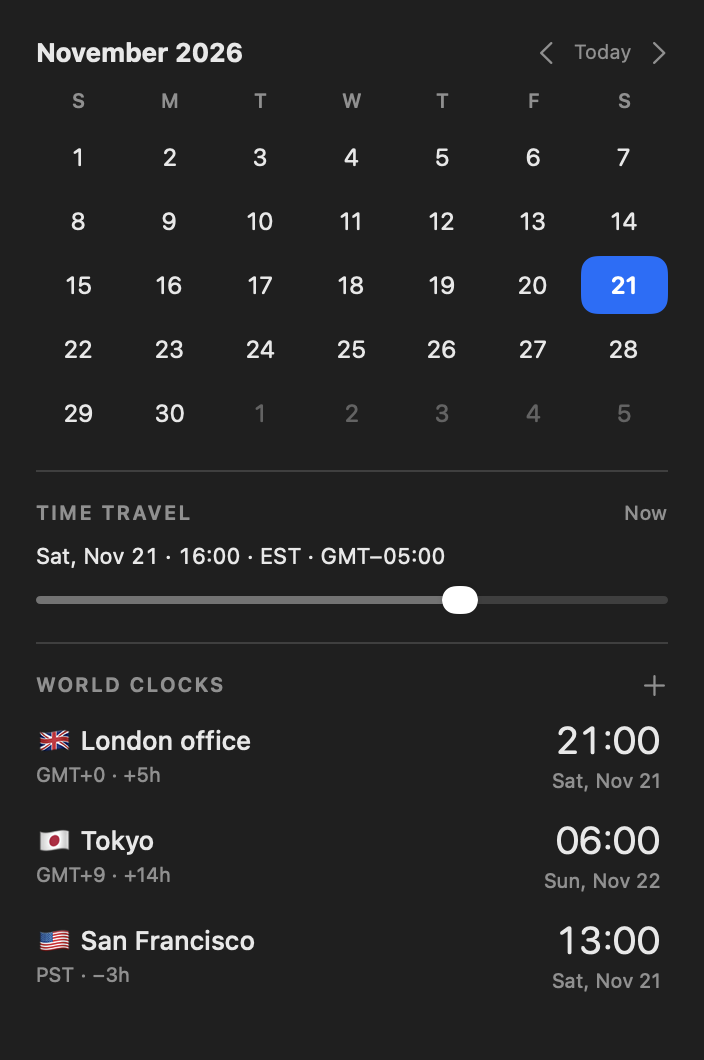
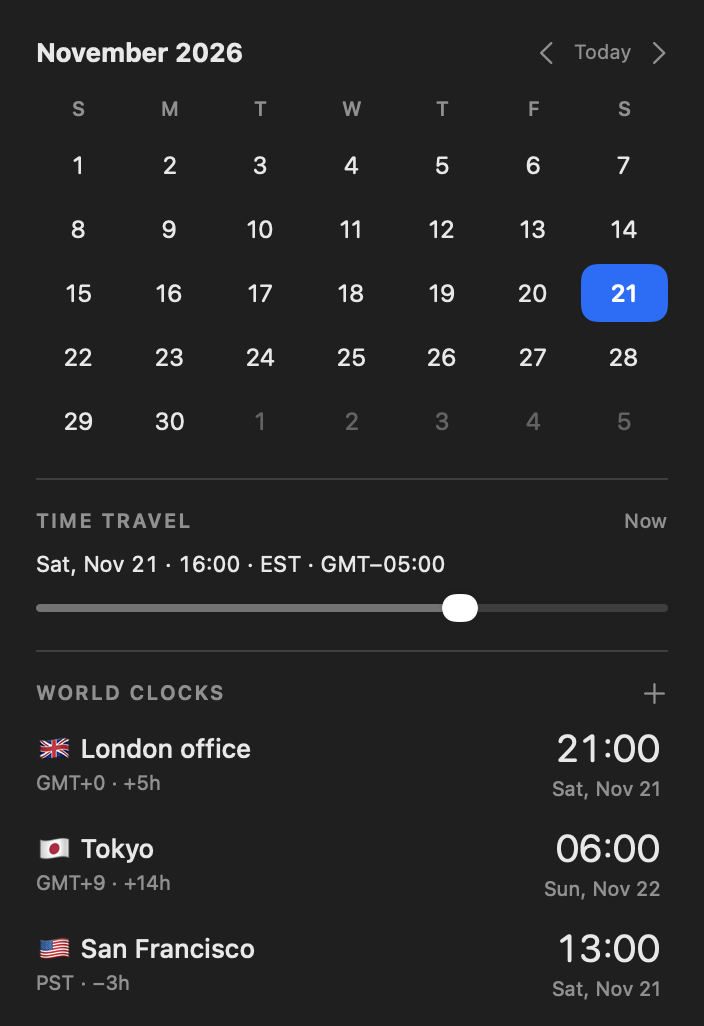
Stabilize settings tabs and tighten dropdown spacing

diff --git a/Horologium/Views/SettingsView.swift b/Horologium/Views/SettingsView.swift
@@ -14,7 +14,10 @@ struct SettingsView: View {
     @State private var loginEnabled = SMAppService.mainApp.status == .enabled
     @State private var loginError: String?
 
-    enum Tab: String, CaseIterable { case general, menuBar, calendar, layout, locations, about }
+    enum Tab: String, CaseIterable {
+        case general, menuBar, calendar, layout, locations, about
+        var title: String { self == .menuBar ? "Menu Bar" : rawValue.capitalized }
+    }
     @ObservedObject private var navigation: SettingsNavigation
     @State private var selectedSection: DropdownSection?
 
@@ -25,14 +28,7 @@ struct SettingsView: View {
 
     var body: some View {
         VStack(alignment: .leading, spacing: 16) {
-            Picker("Settings category", selection: $navigation.tab) {
-                Text("General").tag(Tab.general)
-                Text("Menu Bar").tag(Tab.menuBar)
-                Text("Calendar").tag(Tab.calendar)
-                Text("Layout").tag(Tab.layout)
-                Text("Locations").tag(Tab.locations)
-                Text("About").tag(Tab.about)
-            }.pickerStyle(.segmented).labelsHidden()
+            SettingsTabs(selection: $navigation.tab).frame(width: 492, height: 28)
             Group {
                 switch navigation.tab {
                 case .general: general
@@ -131,10 +127,6 @@ struct SettingsView: View {
                 Toggle("AM/PM symbols", isOn: $store.preferences.showAMPM)
                     .disabled(!store.preferences.showTime || store.preferences.clockFormat == .twentyFourHour)
             }
-            Section {
-                Text(store.menuTitle.isEmpty ? "Clock icon" : store.menuTitle)
-                    .font(.system(.body, design: .monospaced)).accessibilityLabel("Menu bar preview")
-            } header: { Text("Preview") }
         }.formStyle(.grouped).scrollContentBackground(.hidden).toggleStyle(.switch)
     }
 
@@ -182,7 +174,6 @@ struct SettingsView: View {
             Text("Horologium").font(.largeTitle.weight(.semibold))
             Text("Version \(Bundle.main.object(forInfoDictionaryKey: "CFBundleShortVersionString") as? String ?? "—") (build \(Bundle.main.object(forInfoDictionaryKey: "CFBundleVersion") as? String ?? "—"))")
                 .font(.subheadline).foregroundStyle(.secondary)
-            Text("Ardens").foregroundStyle(.secondary)
             Link("City data by GeoNames", destination: URL(string: "https://www.geonames.org/")!)
             Link("Creative Commons Attribution 4.0", destination: URL(string: "https://creativecommons.org/licenses/by/4.0/")!)
                 .font(.caption).foregroundStyle(.secondary)
@@ -220,4 +211,46 @@ struct SettingsView: View {
 private struct LocationEditorState: Identifiable {
     let id = UUID()
     let location: SavedLocation?
+}
+
+// Fixed segment widths prevent native selection emphasis from shifting adjacent tabs.
+struct SettingsTabs: NSViewRepresentable {
+    @Binding var selection: SettingsView.Tab
+
+    func makeNSView(context: Context) -> NSSegmentedControl {
+        let control = NSSegmentedControl()
+        control.segmentCount = SettingsView.Tab.allCases.count
+        control.trackingMode = .selectOne
+        control.segmentStyle = .rounded
+        control.segmentDistribution = .fillEqually
+        control.font = .systemFont(ofSize: 13)
+        for (index, tab) in SettingsView.Tab.allCases.enumerated() {
+            control.setLabel(tab.title, forSegment: index)
+            control.setWidth(82, forSegment: index)
+        }
+        control.target = context.coordinator
+        control.action = #selector(Coordinator.changed(_:))
+        control.setAccessibilityLabel("Settings category")
+        return control
+    }
+
+    func updateNSView(_ control: NSSegmentedControl, context: Context) {
+        context.coordinator.selection = $selection
+        control.selectedSegment = SettingsView.Tab.allCases.firstIndex(of: selection)!
+    }
+
+    func sizeThatFits(_ proposal: ProposedViewSize, nsView: NSSegmentedControl, context: Context) -> CGSize? {
+        CGSize(width: 492, height: 28)
+    }
+
+    func makeCoordinator() -> Coordinator { Coordinator(selection: $selection) }
+
+    final class Coordinator: NSObject {
+        var selection: Binding<SettingsView.Tab>
+        init(selection: Binding<SettingsView.Tab>) { self.selection = selection }
+        @objc func changed(_ control: NSSegmentedControl) {
+            guard SettingsView.Tab.allCases.indices.contains(control.selectedSegment) else { return }
+            selection.wrappedValue = SettingsView.Tab.allCases[control.selectedSegment]
+        }
+    }
 }

diff --git a/HorologiumTests/VisualPreviewTests.swift b/HorologiumTests/VisualPreviewTests.swift
@@ -41,6 +41,39 @@ final class VisualPreviewTests: XCTestCase {
         try render(PopoverView(store: store, openLocations: {}), name: "04-first-launch", width: 352)
     }
 
+    @MainActor func testSettingsTabWidthsRemainStableAcrossSelections() async throws {
+        let suite = "HorologiumLayoutTests.\(UUID())"
+        let defaults = UserDefaults(suiteName: suite)!
+        defer { defaults.removePersistentDomain(forName: suite) }
+        let navigation = SettingsNavigation()
+        let view = NSHostingView(rootView: SettingsView(store: AppStore(defaults: defaults), navigation: navigation))
+        let window = NSWindow(contentRect: NSRect(x: 0, y: 0, width: 540, height: 600),
+                              styleMask: [.borderless], backing: .buffered, defer: false)
+        window.isReleasedWhenClosed = false
+        window.contentView = view
+        defer { window.close() }
+        func segmentedControl(in view: NSView) -> NSSegmentedControl? {
+            if let control = view as? NSSegmentedControl, control.segmentCount == 6 { return control }
+            return view.subviews.compactMap { segmentedControl(in: $0) }.first
+        }
+        var firstFrame: NSRect?
+        for tab in SettingsView.Tab.allCases {
+            navigation.tab = tab
+            try await Task.sleep(for: .milliseconds(25))
+            view.layoutSubtreeIfNeeded()
+            let control = try XCTUnwrap(segmentedControl(in: view))
+            if let firstFrame {
+                XCTAssertEqual(control.frame.width, firstFrame.width, accuracy: 0.5)
+                XCTAssertEqual(control.frame.origin.x, firstFrame.origin.x, accuracy: 0.5)
+            } else { firstFrame = control.frame }
+            for index in 0..<control.segmentCount {
+                XCTAssertEqual(control.width(forSegment: index), 82, accuracy: 0.5)
+            }
+            XCTAssertEqual(control.selectedSegment, SettingsView.Tab.allCases.firstIndex(of: tab))
+            XCTAssertEqual(window.contentView!.frame.width, 540, accuracy: 0.5)
+        }
+    }
+
     @MainActor private func render<V: View>(_ content: V, name: String, width: CGFloat, dark: Bool = false) throws {
         let view = NSHostingView(rootView: content.environment(\.colorScheme, dark ? .dark : .light))
         let window = NSWindow(contentRect: NSRect(x: 0, y: 0, width: width, height: 800),

diff --git a/Horologium/Views/PopoverView.swift b/Horologium/Views/PopoverView.swift
@@ -16,7 +16,9 @@ struct PopoverView: View {
                 }
             }
         }
-        .padding(18)
+        .padding(.horizontal, 18)
+        .padding(.top, 18)
+        .padding(.bottom, 12)
         .frame(width: 352)
         .background(.regularMaterial)
         .focusable().focusEffectDisabled().focused($focused)
@@ -63,17 +65,22 @@ struct PopoverView: View {
                         .font(.caption).foregroundStyle(.secondary).multilineTextAlignment(.center)
                     Button("Add Location", action: openLocations).padding(.top, 3)
                 }.frame(maxWidth: .infinity).padding(.vertical, 10)
+            } else if store.locations.count <= 4 {
+                clockRows
             } else {
-                ScrollView {
-                    VStack(spacing: 12) {
-                        ForEach(store.locations) { location in
-                            ClockRow(location: location, date: store.displayedDate, format: store.preferences.clockFormat)
-                        }
-                    }.padding(.trailing, 3)
-                }.frame(height: min(CGFloat(store.locations.count) * 51, 220))
+                ScrollView { clockRows }.frame(height: 220)
             }
         }
     }
+
+    private var clockRows: some View {
+        VStack(spacing: 12) {
+            ForEach(store.locations) { location in
+                ClockRow(location: location, date: store.displayedDate, format: store.preferences.clockFormat)
+            }
+        }.padding(.trailing, 3)
+    }
+
 }
 
 private struct ClockRow: View {

diff --git a/Horologium/Views/CalendarView.swift b/Horologium/Views/CalendarView.swift
@@ -5,7 +5,7 @@ struct CalendarView: View {
     private let columns = Array(repeating: GridItem(.flexible(), spacing: 2), count: 7)
 
     var body: some View {
-        VStack(spacing: 10) {
+        VStack(spacing: 14) {
             HStack {
                 Text(ClockText.date(store.month, template: "MMMM yyyy"))
                     .font(.headline)

diff --git a/README.md b/README.md
@@ -68,7 +68,7 @@ Create a local installer for development:
 ./scripts/package.sh --local
 ```
 
-Output: `build/packages/Horologium-1.0.1-build2-local.pkg`. This contains an ad hoc signed app; the package is **not Developer ID signed or notarized** and is for local development.
+Output: `build/packages/Horologium-1.0.2-build3-local.pkg`. This contains an ad hoc signed app; the package is **not Developer ID signed or notarized** and is for local development.
 
 Once Ardens' Apple Developer Program membership is active:
 
@@ -89,7 +89,7 @@ Quit an existing Horologium process before installing an updated build, then reo
 
 ## Versioning
 
-The current version is **1.0.1 (build 2)**. `Version.json` is the source of truth; the Xcode project generator reads it, About reads the built app metadata, and installer filenames include both version and build.
+The current version is **1.0.2 (build 3)**. `Version.json` is the source of truth; the Xcode project generator reads it, About reads the built app metadata, and installer filenames include both version and build.
 
 Bump the patch version and build once per delivered change:
 

diff --git a/CHANGELOG.md b/CHANGELOG.md
@@ -1,5 +1,12 @@
 # Changelog
 
+## 1.0.2 — Build 3
+
+- Stabilized settings tabs with fixed, equal native segment widths.
+- Removed Ardens from About and removed the Menu Bar preview section.
+- Removed excess space below short clock lists and tightened the dropdown's bottom padding.
+- Added a little spacing between the calendar header and weekday grid.
+
 ## 1.0.1 — Build 2
 
 - Simplified the location editor and emoji picker by removing helper text and the emoji count footer.
